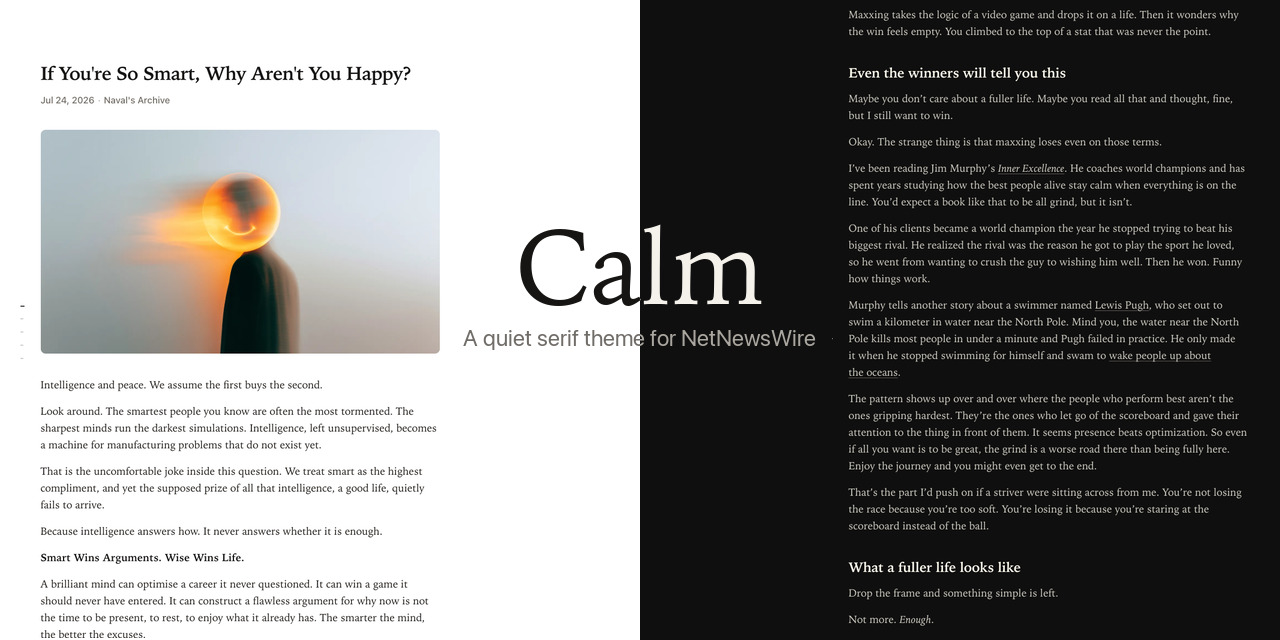
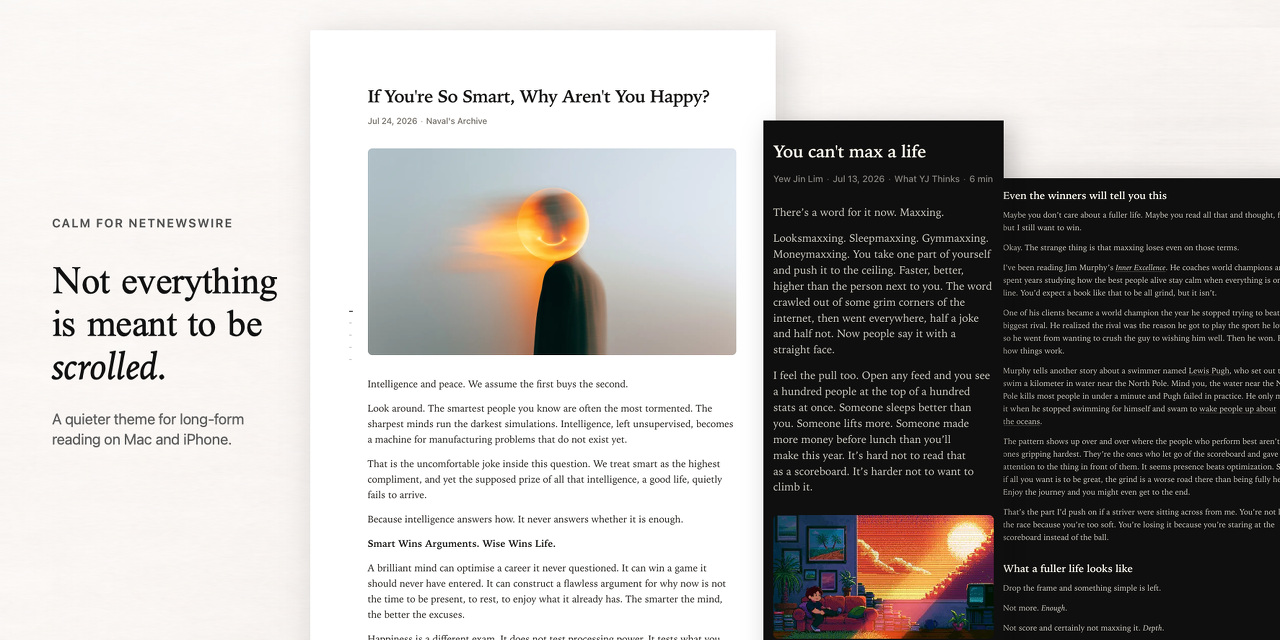
Refresh Calm launch artwork

diff --git a/README.md b/README.md
@@ -2,7 +2,7 @@
 
 <picture>
   <source media="(max-width: 600px)" srcset="assets/social-preview-mobile.jpg">
-  <img src="assets/social-preview.jpg" alt="Calm light and dark NetNewsWire article previews side by side">
+  <img src="assets/social-preview.jpg" alt="Calm for NetNewsWire with undistorted light, dark, and iPhone article screenshots and the line Not everything is meant to be scrolled">
 </picture>
 
 **Long-form navigation without reader chrome.**
